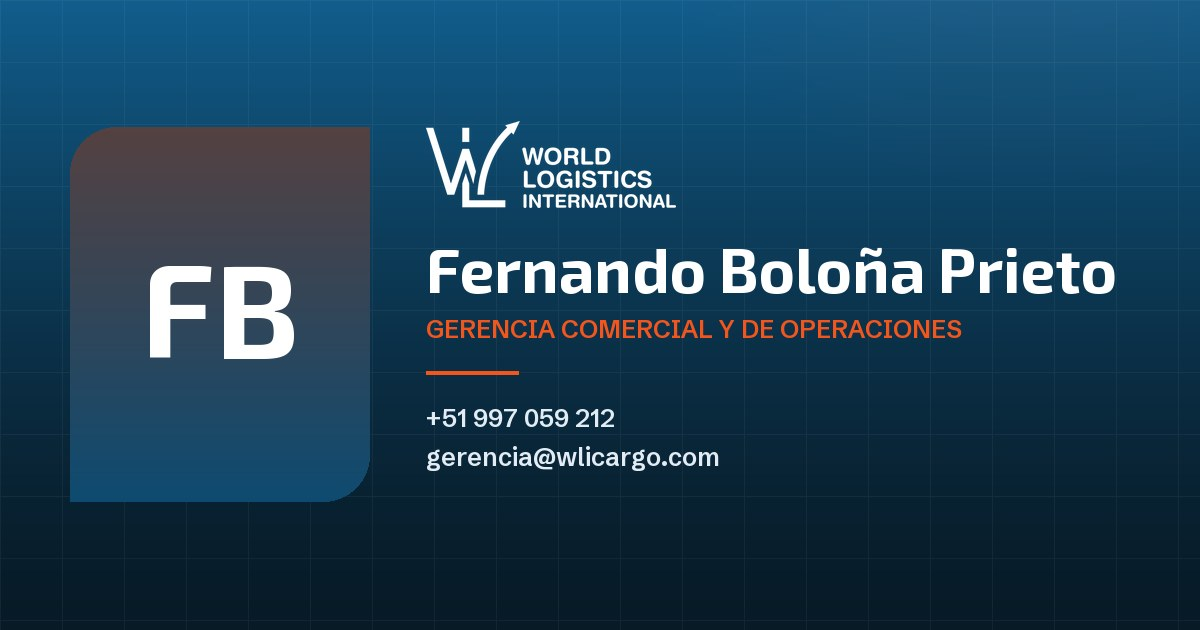
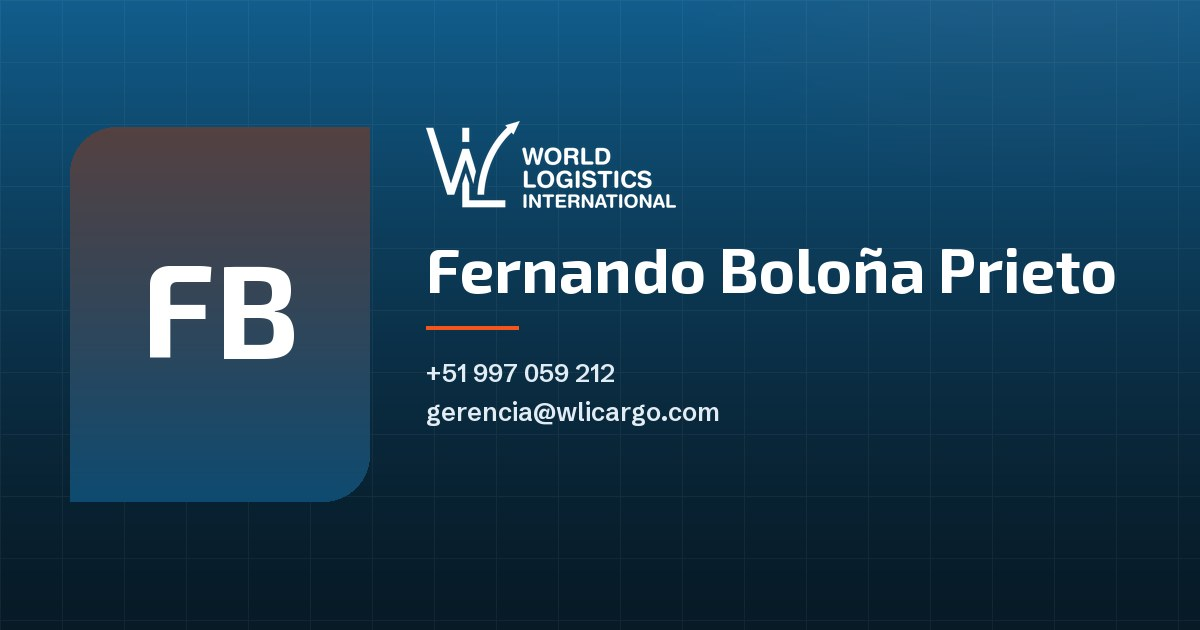
Nueva dirección, tarjeta de Alfonso Mc Cubbin y Fernando sin cargo
Dirección real de la oficina: Av. Venezuela 1684, Breña. Cambia en el
sitio, en la ficha estructurada, en el mapa, en el pie y en las vCard.
El mapa pasa a la forma ?q=...&output=embed, que no depende del
identificador interno de un local: si se mudan otra vez, basta el texto.

Tarjeta nueva para Alfonso Mc Cubbin Trisano, con el modelo de gerencia.
Fernando se queda sin cargo por indicación del cliente, así que todo lo
que lo nombraba —título, descripción, vista previa, ficha estructurada y
la línea TITLE de la vCard— tenía que sostenerse sin él.

Dos cosas que un apellido compuesto rompía:

- La vCard supone la convención peruana, los dos últimos son apellidos,
  y con «Mc Cubbin Trisano» archivaba el contacto como «Cubbin Trisano».
  Ahora la persona puede traer sus apellidos escritos.
- «Alfonso Mc / Cubbin Trisano» partía la partícula y se leía como otro
  apellido. Un espacio duro la mantiene pegada, solo en la tarjeta.

La pastilla de la esquina deja de deducirse del modelo: Alfonso lleva el
diseño de gerencia sin ser gerencia.

Changed region(s): [[0.3392, 0.6333, 0.6167, 0.754], [0.3392, 0.4825, 0.8017, 0.5429], [0.3392, 0.573, 0.5242, 0.6032]]

diff --git a/src/data/equipo.js b/src/data/equipo.js
@@ -5,11 +5,17 @@
  * generan solos al compilar.
  *
  * Campos que parecen accesorios y no lo son:
- *   alias   Las tarjetas se imprimen y viven años. Si un slug cambia, las URL
- *           antiguas siguen funcionando desde aquí.
- *   activo  Cuando alguien deja la empresa su URL sigue circulando. En false,
- *           la tarjeta muestra un aviso cortés y lleva a contacto, sin 404.
- *   modelo  'comercial' lleva retrato; 'gerencia' va sin foto, con monograma.
+ *   alias     Las tarjetas se imprimen y viven años. Si un slug cambia, las URL
+ *             antiguas siguen funcionando desde aquí.
+ *   activo    Cuando alguien deja la empresa su URL sigue circulando. En false,
+ *             la tarjeta muestra un aviso cortés y lleva a contacto, sin 404.
+ *   modelo    'comercial' lleva retrato; 'gerencia' va sin foto, con sello.
+ *   etiqueta  Lo que dice la pastilla de la esquina. Por defecto, 'Tarjeta
+ *             digital'.
+ *   apellidos Solo cuando no se pueden deducir. La vCard supone la convención
+ *             peruana —los dos últimos son los apellidos—, y eso falla con un
+ *             apellido de dos palabras como Mc Cubbin.
+ *   cargo     Puede faltar. La tarjeta se compone sin él.
  */
 export const equipo = [
   {
@@ -17,15 +23,32 @@ export const equipo = [
     alias: ['fernando', 'gerencia'],
     activo: true,
     modelo: 'gerencia',
+    etiqueta: 'Dirección',
     nombre: 'Fernando Boloña Prieto',
     nombreCompleto: 'Fernando José Martín Boloña Prieto',
     iniciales: 'FB',
-    cargo: 'Gerencia Comercial y de Operaciones',
-    cargoEn: 'Commercial and Operations Management',
+    // Sin cargo por indicación del cliente.
+    cargo: null,
     movil: '+51 997 059 212',
     whatsapp: '51997059212',
     // Sin correo personal facilitado: se usa el de gerencia de la empresa.
     email: 'gerencia@wlicargo.com',
+    foto: null,
+  },
+  {
+    slug: 'alfonso-mccubbin',
+    alias: ['alfonso', 'pricing'],
+    activo: true,
+    modelo: 'gerencia',
+    nombre: 'Alfonso Mc Cubbin Trisano',
+    nombreCompleto: 'Alfonso Alejandro Mc Cubbin Trisano',
+    apellidos: 'Mc Cubbin Trisano',
+    iniciales: 'AM',
+    cargo: 'Pricing e Inside Sales',
+    cargoEn: 'Pricing and Inside Sales',
+    movil: '+51 912 507 555',
+    whatsapp: '51912507555',
+    email: 'amccubbin@wlicargo.com',
     foto: null,
   },
   {
@@ -69,3 +92,39 @@ export const buscarPersona = (slug) =>
 
 /** Número en formato marcable, sin espacios. */
 export const tel = (p) => '+' + p.whatsapp;
+
+/**
+ * Nombre partido para la vCard.
+ *
+ * Por convención peruana los dos últimos son los apellidos. Cuando eso no
+ * vale —un apellido compuesto, por ejemplo— la persona trae los suyos escritos
+ * y aquí solo se descuentan del nombre completo.
+ */
+export const partirNombre = (p) => {
+  const partes = p.nombreCompleto.trim().split(/\s+/);
+  if (p.apellidos) {
+    const cuantos = p.apellidos.trim().split(/\s+/).length;
+    return {
+      apellidos: p.apellidos,
+      pila: partes.slice(0, -cuantos).join(' ') || partes[0],
+    };
+  }
+  return {
+    apellidos: partes.slice(-2).join(' '),
+    pila: partes.slice(0, -2).join(' ') || partes[0],
+  };
+};
+
+/**
+ * Nombre tal como se compone en la tarjeta.
+ *
+ * Las partículas de apellido no deben quedarse solas al final de una línea:
+ * «Alfonso Mc / Cubbin Trisano» se lee como otro apellido. Un espacio duro las
+ * mantiene pegadas a lo que sigue, y solo aquí: la vCard y el nombre completo
+ * siguen llevando espacios normales.
+ */
+const PARTICULAS = /\b(De la|De los|De|Del|Mc|Mac|Van|Von|Da|Di|La|Las|Los|San|Saint)\s+/g;
+export const nombreTarjeta = (p) => p.nombre.replace(PARTICULAS, (m) => m.trimEnd() + '\u00A0');
+
+/** Texto de la pastilla de la esquina de la tarjeta. */
+export const etiquetaDe = (p) => p.etiqueta ?? 'Tarjeta digital';

diff --git a/src/i18n/ui.js b/src/i18n/ui.js
@@ -193,7 +193,7 @@ export const ui = {
       relato2:
         'Además, contamos con un avanzado sistema de seguimiento que te brinda control total en cada etapa del proceso, garantizando la trazabilidad y el cumplimiento de los más altos estándares de seguridad.',
       relato3:
-        'Operamos desde San Isidro, Lima, con cobertura en los principales terminales portuarios y aéreos del Perú, y una red de agentes corresponsales que nos permite coordinar embarques en origen y destino sin intermediarios innecesarios.',
+        'Operamos desde Breña, Lima, con cobertura en los principales terminales portuarios y aéreos del Perú, y una red de agentes corresponsales que nos permite coordinar embarques en origen y destino sin intermediarios innecesarios.',
       misionTitulo: 'Misión',
       mision:
         'En World Logistics International transformamos la logística en una ventaja estratégica para tu negocio. Nuestra misión es optimizar cada proceso a través de soluciones personalizadas que analicen y mejoren cada eslabón de la cadena de suministro. Nos comprometemos a brindar un servicio confiable, transparente y altamente eficiente que reduzca costos, agilice tiempos y garantice un flujo logístico sin interrupciones, permitiéndote concentrarte en el crecimiento y éxito de tu empresa.',
@@ -391,8 +391,8 @@ export const ui = {
       reclamoTitulo: '¿Tienes un reclamo o una queja?',
       reclamoTexto: 'Regístralo en nuestro Libro de Reclamaciones y recibirás una constancia con el código de tu registro.',
       mapaEyebrow: 'Cómo llegar',
-      mapaTitulo: 'Encuéntranos en San Isidro',
-      mapaTitle: 'Ubicación de World Logistics International en San Isidro, Lima',
+      mapaTitulo: 'Encuéntranos en Breña',
+      mapaTitle: 'Ubicación de World Logistics International en Breña, Lima',
     },
 
     // ---------- Libro de reclamaciones ----------
@@ -669,7 +669,7 @@ export const ui = {
       relato2:
         'We also run an advanced tracking system that gives you full control at every stage of the process, guaranteeing traceability and compliance with the highest safety standards.',
       relato3:
-        'We operate from San Isidro, Lima, covering the main port and air terminals in Peru, with a network of correspondent agents that lets us coordinate shipments at origin and destination without unnecessary intermediaries.',
+        'We operate from Breña, Lima, covering the main port and air terminals in Peru, with a network of correspondent agents that lets us coordinate shipments at origin and destination without unnecessary intermediaries.',
       misionTitulo: 'Mission',
       mision:
         'At World Logistics International we turn logistics into a strategic advantage for your business. Our mission is to optimise every process through tailored solutions that analyse and improve each link of the supply chain. We are committed to delivering a reliable, transparent and highly efficient service that cuts costs, speeds up timelines and guarantees an uninterrupted logistics flow, so you can focus on growing your company.',
@@ -863,8 +863,8 @@ export const ui = {
       reclamoTitulo: 'Do you have a claim or complaint?',
       reclamoTexto: 'File it in our Complaints Book and you will receive a receipt with your registration code.',
       mapaEyebrow: 'How to find us',
-      mapaTitulo: 'Find us in San Isidro',
-      mapaTitle: 'Location of World Logistics International in San Isidro, Lima',
+      mapaTitulo: 'Find us in Breña',
+      mapaTitle: 'Location of World Logistics International in Breña, Lima',
     },
 
     libro: {

diff --git a/src/pages/t/[slug].vcf.js b/src/pages/t/[slug].vcf.js
@@ -5,7 +5,7 @@
  * unos datos y los pierde. La versión 3.0 es la que aceptan sin rechistar
  * tanto iOS como Android y Outlook.
  */
-import { equipo, tel } from '../../data/equipo.js';
+import { equipo, partirNombre, tel } from '../../data/equipo.js';
 import { site } from '../../data/site.js';
 
 export function getStaticPaths() {
@@ -21,12 +21,9 @@ const esc = (v = '') => String(v).replace(/\\/g, '\\\\').replace(/;/g, '\\;').re
 export function GET({ props }) {
   const p = props.persona;
 
-  // Convención peruana: los dos últimos son los apellidos (paterno y materno),
-  // el resto son nombres de pila. Separarlo mal deja la agenda del cliente
-  // archivando el contacto por un segundo nombre.
-  const partes = p.nombreCompleto.trim().split(/\s+/);
-  const apellidos = partes.slice(-2).join(' ');
-  const pila = partes.slice(0, -2).join(' ') || partes[0];
+  // Separar mal el nombre deja la agenda del cliente archivando el contacto
+  // por un segundo nombre. La regla vive junto a los datos, en equipo.js.
+  const { apellidos, pila } = partirNombre(p);
 
   const lineas = [
     'BEGIN:VCARD',
@@ -34,14 +31,16 @@ export function GET({ props }) {
     `N:${esc(apellidos)};${esc(pila)};;;`,
     `FN:${esc(p.nombre)}`,
     `ORG:${esc(site.nombreLargo)}`,
-    `TITLE:${esc(p.cargo)}`,
+    // Quien no tiene cargo declarado no lleva la línea: una vCard con TITLE
+    // vacío deja un renglón en blanco en la ficha de contacto.
+    ...(p.cargo ? [`TITLE:${esc(p.cargo)}`] : []),
     `TEL;TYPE=CELL,VOICE:${tel(p)}`,
     `EMAIL;TYPE=INTERNET,WORK:${p.email}`,
-    `ADR;TYPE=WORK:;;${esc('Cal. Germán Schreiber 276')};${esc('San Isidro')};${esc('Lima')};;${esc('Perú')}`,
+    `ADR;TYPE=WORK:;;${esc('Av. Venezuela 1684')};${esc('Breña')};${esc('Lima')};;${esc('Perú')}`,
     `URL:${site.dominio}`,
     `item1.URL:${site.dominio}/t/${p.slug}`,
     'item1.X-ABLabel:Tarjeta digital',
-    `NOTE:${esc(`${p.cargo} · ${site.nombreLargo}`)}`,
+    `NOTE:${esc(p.cargo ? `${p.cargo} · ${site.nombreLargo}` : site.nombreLargo)}`,
     `REV:${new Date().toISOString().replace(/[-:]/g, '').split('.')[0]}Z`,
     'END:VCARD',
   ];

diff --git a/src/data/site.js b/src/data/site.js
@@ -7,7 +7,10 @@ export const site = {
   // de publicar: se muestra en la cabecera del Libro de Reclamaciones.
   ruc: '20608160061',
   dominio: 'https://wlicargo.com',
-  direccion: 'Cal. Germán Schreiber Nro. 276, San Isidro — Lima, Perú',
+  direccion: 'Av. Venezuela 1684, Breña — Lima, Perú',
+  // Para pies de página y tarjetas, donde la calle sobra
+  direccionCorta: 'Breña, Lima — Perú',
+  distrito: 'Breña',
   email: 'gerencia@wlicargo.com',
   telefonoDisplay: '+51 912 507 555',
   whatsapp: '51912507555',
@@ -17,9 +20,10 @@ export const site = {
     es: 'Operador logístico peruano con más de 20 años de experiencia. Carga marítima, aérea, consolidada, agenciamiento de aduana y logística médica internacional.',
     en: 'Peruvian freight forwarder with over 20 years of experience. Ocean, air and consolidated freight, customs brokerage and international medical logistics.',
   },
-  mapa:
-    'https://www.google.com/maps/embed?pb=!1m18!1m12!1m3!1d2758.5904301880196!2d-77.02532943264664!3d-12.095989718965916!2m3!1f0!2f0!3f0!3m2!1i1024!2i768!4f13.1!3m3!1m2!1s0x9105c86567bc14ab%3A0xa45eb32ad7d1aef1!2sSchreiber%20Coworking%20%26%20Offices%20-%20Sede%20San%20Isidro!5e0!3m2!1ses-419!2spe!4v1740165568032!5m2!1ses-419!2spe',
-  mapaLink: 'https://maps.google.com/?q=Germán+Schreiber+276+San+Isidro+Lima+Perú',
+  // Forma ?q=...&output=embed: no necesita clave de API ni el identificador
+  // interno de un local concreto, así que sigue funcionando si se mudan.
+  mapa: 'https://www.google.com/maps?q=Av.+Venezuela+1684,+Bre%C3%B1a,+Lima,+Per%C3%BA&hl=es&z=17&output=embed',
+  mapaLink: 'https://maps.google.com/?q=Av.+Venezuela+1684+Breña+Lima+Perú',
   // Dos accesos distintos al sistema de embarques:
   //  · seguimiento  — consulta pública por número de orden, sin credenciales
   //  · zonaCliente  — área privada, requiere usuario y contraseña

diff --git a/scripts/og-tarjetas.py b/scripts/og-tarjetas.py
@@ -59,8 +59,6 @@ def leer_equipo():
             m = re.search(nombre + r":\s*'([^']*)'", bloque)
             return m.group(1) if m else None
         foto = campo('foto')
-        if foto is None and 'foto: null' in bloque:
-            foto = None
         personas.append({
             'slug': campo('slug'),
             'nombre': campo('nombre'),
@@ -173,9 +171,13 @@ def generar(p):
     d.text((x, y), p['nombre'], font=f_nombre, fill=BLANCO)
     y += f_nombre.size + 20
 
-    f_cargo = ajustar(p['cargo'].upper(), ImageFont.truetype(grot, 25), ancho, d)
-    d.text((x, y), p['cargo'].upper(), font=f_cargo, fill=NARANJA)
-    y += f_cargo.size + 34
+    # El cargo puede faltar; entonces el nombre respira un poco más
+    if p['cargo']:
+        f_cargo = ajustar(p['cargo'].upper(), ImageFont.truetype(grot, 25), ancho, d)
+        d.text((x, y), p['cargo'].upper(), font=f_cargo, fill=NARANJA)
+        y += f_cargo.size + 34
+    else:
+        y += 14
 
     d.line([(x, y), (x + 92, y)], fill=(*NARANJA, 255), width=4)
     y += 30

diff --git a/README.md b/README.md
@@ -163,9 +163,10 @@ apuntar el DNS quedan publicadas sin ningún paso extra.
 
 | Persona | Tarjeta | Modelo |
 |---|---|---|
-| Fernando Boloña Prieto | `/t/fernando-bolona` | gerencia, sin foto |
-| John Valverde Rodríguez | `/t/john-valverde` | comercial |
-| Kevin Jibaja Vásquez | `/t/kevin-jibaja` | comercial |
+| Fernando Boloña Prieto | `/t/fernando-bolona` | gerencia, sello sin foto |
+| Alfonso Mc Cubbin Trisano | `/t/alfonso-mccubbin` | gerencia, sello sin foto |
+| John Valverde Rodríguez | `/t/john-valverde` | comercial, con retrato |
+| Kevin Jibaja Vásquez | `/t/kevin-jibaja` | comercial, con retrato |
 
 Añadir a alguien es añadir un objeto en **`src/data/equipo.js`** y ejecutar los
 dos generadores. Su tarjeta, su vCard, su QR y su vista previa salen solos.
@@ -196,6 +197,10 @@ Qué incluye cada tarjeta:
   antiguas siguen sirviendo la misma tarjeta.
 - **`activo: false`** — cuando alguien deja la empresa su URL sigue circulando.
   En lugar de un 404, la tarjeta muestra un aviso y lleva a contacto.
+- **`apellidos`** — solo cuando no se pueden deducir. La vCard supone la
+  convención peruana (los dos últimos son los apellidos) y eso falla con un
+  apellido de dos palabras, como Mc Cubbin.
+- **`cargo: null`** — la tarjeta, la vCard y la vista previa se componen sin él.
 
 ### Para el cliente
 
